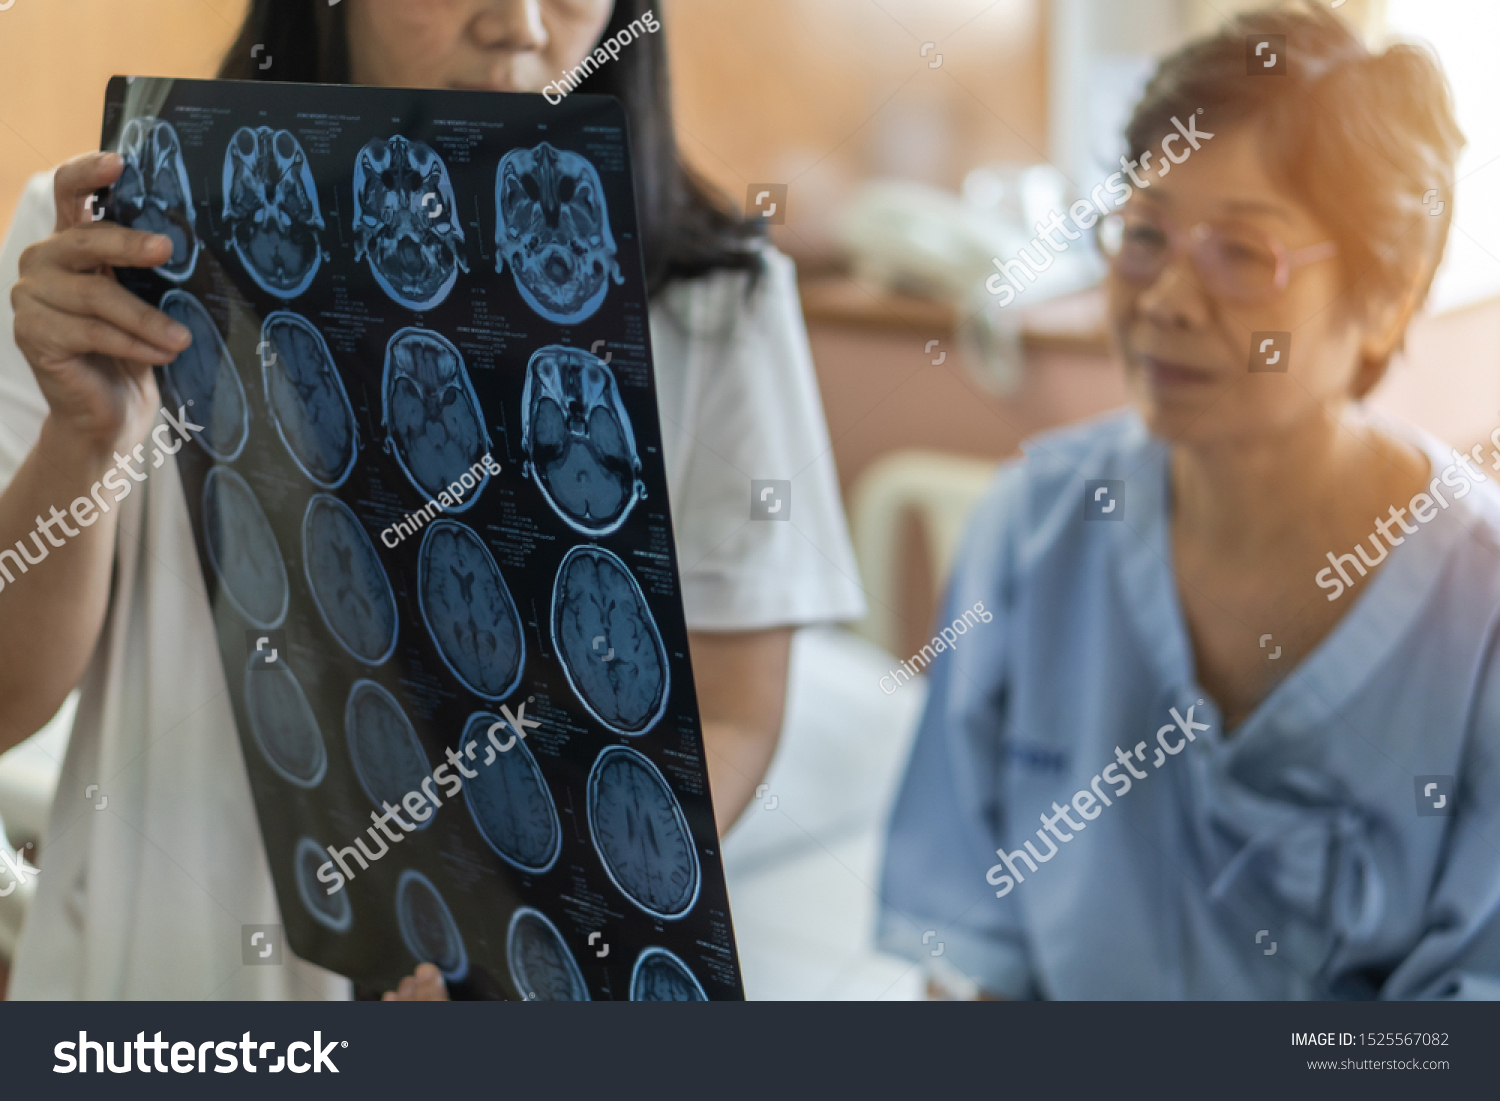
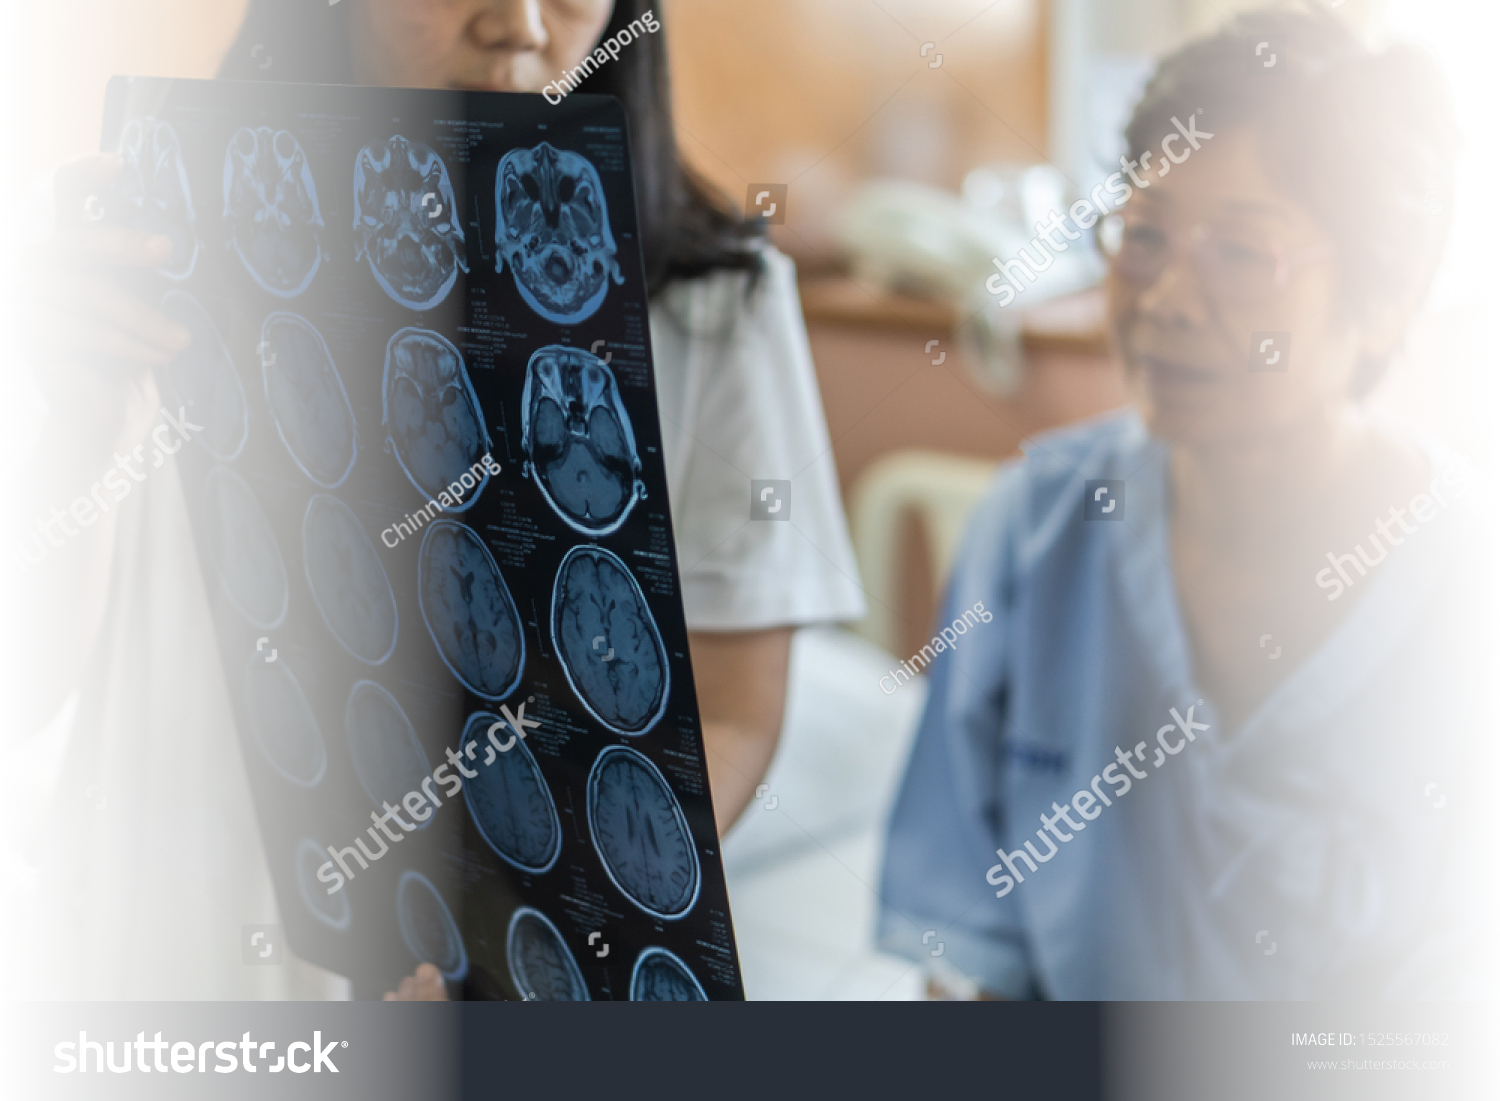
Finish about me page

diff --git a/src/components/Hheader.tsx b/src/components/Hheader.tsx
@@ -1,142 +1,28 @@
-import neuro from '/public/stock.jpg';
-// import tester from '/public/fd5.jpg';
-import tester1 from '/public/tester.jpg';
-import Image from 'next/image';
-import { Fragment } from 'react';
-import { Popover, Transition } from '@headlessui/react';
-
-import tester from '/public/stock.jpg';
-
-export const Hheader = ({ pageName }) => {
+import stock from 'public/stock.jpg';
+export default function Hheader({ pageName, imageURL }) {
   return (
-    <div className="relative  ">
-      {/* mt-[6rem] */}
-      <img
-        src={tester.src}
-        className="absolute inset-0 object-contain w-full h-full "
-        alt=""
-      />
-      <div className="relative bg-gray-900 bg-opacity-75 ">
-        {/* md:h-[50rem] */}
-        <div className="px-4 py-16 mx-auto sm:max-w-xl md:max-w-full lg:max-w-screen-xl md:px-24 lg: lg:py-20">
-          <div className="flex flex-col  justify-center xl:flex-row">
-            <div className="w-full max-w-2xl mb-12 xl:mb-0 xl:pr-16 xl:w-7/12 text-center">
-              <h1 className="max-w-lg mb-6 font-sans text-3xl font-bold tracking-tight text-white sm:text-4xl sm:leading-none mx-auto">
-                {pageName}{' '}
-                <p className="justify-center text-[#7ba009]">
-                  {/* About Us{' '} */}
-                </p>{' '}
-                {/* <p className="">Medicine Associates</p> */}
-              </h1>
-              <p className="max-w-lg mb-4 text-base text-white md:text-lg mx-auto">
-          About Us
-                {/* Serving our community since 2005. */}
-              </p>
-    
-            </div>
-            {/* <div className="w-full max-w-xl xl:px-8 xl:w-5/12">
-              <div className="bg-white rounded shadow-2xl p-7 sm:p-10">
-                <h3 className="mb-4 text-xl font-semibold sm:text-center sm:mb-6 sm:text-2xl">
-                  Sign up for updates
-                </h3>
-                <form>
-                  <div className="mb-1 sm:mb-2">
-                    <label
-                      htmlFor="firstName"
-                      className="inline-block mb-1 font-medium"
-                    >
-                      First name
-                    </label>
-                    <input
-                      placeholder="John"
-                      required
-                      type="text"
-                      className="flex-grow w-full h-12 px-4 mb-2 transition duration-200 bg-white border border-gray-300 rounded shadow-sm appearance-none focus:border-deep-purple-accent-400 focus:outline-none focus:shadow-outline"
-                      id="firstName"
-                      name="firstName"
-                    />
-                  </div>
-                  <div className="mb-1 sm:mb-2">
-                    <label
-                      htmlFor="lastName"
-                      className="inline-block mb-1 font-medium"
-                    >
-                      Last name
-                    </label>
-                    <input
-                      placeholder="Doe"
-                      required
-                      type="text"
-                      className="flex-grow w-full h-12 px-4 mb-2 transition duration-200 bg-white border border-gray-300 rounded shadow-sm appearance-none focus:border-deep-purple-accent-400 focus:outline-none focus:shadow-outline"
-                      id="lastName"
-                      name="lastName"
-                    />
-                  </div>
-                  <div className="mb-1 sm:mb-2">
-                    <label
-                      htmlFor="email"
-                      className="inline-block mb-1 font-medium"
-                    >
-                      E-mail
-                    </label>
-                    <input
-                      placeholder="john.doe@example.org"
-                      required
-                      type="text"
-                      className="flex-grow w-full h-12 px-4 mb-2 transition duration-200 bg-white border border-gray-300 rounded shadow-sm appearance-none focus:border-deep-purple-accent-400 focus:outline-none focus:shadow-outline"
-                      id="email"
-                      name="email"
-                    />
-                  </div>
-                  <div className="mt-4 mb-2 sm:mb-4">
-                    <button
-                      type="submit"
-                      className="inline-flex items-center justify-center w-full h-12 px-6 font-medium tracking-wide text-white transition duration-200 rounded shadow-md bg-deep-purple-accent-400 hover:bg-deep-purple-accent-700 focus:shadow-outline focus:outline-none"
-                    >
-                      Subscribe
-                    </button>
-                  </div>
-                  <p className="text-xs text-gray-600 sm:text-sm">
-                    We respect your privacy. Unsubscribe at any time.
-                  </p>
-                </form>
-              </div>
-            </div> */}
-          </div>
-        </div>
+    <div className="relative mt-[4rem]">
+      <div className="absolute inset-0 w-[116rem] ">
+        <img
+          className="w-full h-full object-contain "
+          src={imageURL}
+          alt=""
+        />
+        <div
+          className="absolute w-screen inset-0  bg-gradient-to-r from-white via-black/10 to-white"
+          aria-hidden="true"
+        />
+      </div>
+      <div className="relative max-w-7xl mx-auto py-24 px-4 sm:py-32 sm:px-6 lg:px-8">
+        <h1 className="text-4xl font-extrabold tracking-tight text-white sm:text-5xl lg:text-6xl text-center">
+          {pageName}
+        </h1>
+        {/* <p className="mt-6 text-xl text-indigo-100 max-w-3xl">
+          Mattis amet hendrerit dolor, quisque lorem pharetra. Pellentesque
+          lacus nisi urna, arcu sociis eu. Orci vel lectus nisl eget eget ut
+          consectetur. Sit justo viverra non adipisicing elit distinctio.
+        </p> */}
       </div>
     </div>
   );
-};
-export default Hheader;
-
-
-// export default function Hheader({ pageName }) {
-//   return (
-//     <div className="pt-28 bg-[#00AEC7] relative overflow-hidden">
-//       <div className="max-w-7xl mx-auto">
-//         <div className="relative z-10 pb-8 sm:pb-16 md:pb-20 lg:max-w-2xl lg:w-full lg:pb-28 xl:pb-32">
-//           <main className="mt-10 mx-auto max-w-7xl px-4 sm:mt-12 sm:px-6 md:mt-16 lg:mt-20 lg:px-8 xl:mt-28">
-//             <div className="sm:text-center lg:text-left">
-//               <h2 className="text-4xl tracking-tight font-extrabold text-gray-900 sm:text-5xl md:text-6xl">
-//                 <span className="block xl:inline">{pageName}</span>
-//                 {/* <span className="block text-indigo-600 xl:inline">online business</span> */}
-//               </h2>
-//               {/* <p className="mt-3 text-base text-gray-500 sm:mt-5 sm:text-lg sm:max-w-xl sm:mx-auto md:mt-5 md:text-xl lg:mx-0">
-//                 Anim aute id magna aliqua ad ad non deserunt sunt. Qui irure qui lorem cupidatat commodo. Elit sunt amet
-//                 fugiat veniam occaecat fugiat aliqua.
-//               </p> */}
-//             </div>
-//           </main>
-//         </div>
-//       </div>
-//       <div className="lg:absolute lg:inset-y-0 lg:right-0 lg:w-1/2">
-//         <img
-//           className="h-56 w-full object-cover sm:h-72 md:h-96 lg:w-full lg:h-full"
-//           src={neuro.src}
-//           alt=""
-//         />
-//       </div>
-//     </div>
-//   );
-// }
+}

diff --git a/src/pages/about.tsx b/src/pages/about.tsx
@@ -1,34 +1,109 @@
 import Team from '@/components/Team3';
 import Hheader from '@/components/Hheader';
+import tester from 'public/tester.jpg';
+import business from 'public/business.jpg';
+import sleeper from 'public/sleeper.jpg';
+import stock from 'public/stock.jpg';
+import Divider from '@/components/layout/Dividers';
 export const AboutUs = () => {
   return (
     <>
-      <div className="bg-wcyan/20 pt-24">
-        <Hheader pageName={'About Us'}></Hheader>
-        <div className="container">
-          <div className="text-center ">
-            <h2 className="mx-auto text-shadow-md ">
-              {/*text-3xl  tracking-tight  text-gray-900 sm:text-4xl */}
-              <span className="text-[#24598C]/50">About </span>
-              <span className="font-bold text-[#24598C]/80">Us</span>
-            </h2>
-
-            <p className="max-w-7xl mt-5 mx-auto text-xl text-slate-500">
-              As a neurologic and sleep disorders specialty clinic, Neurology &
-              Sleep Medicine Associates’ work is in a unique partnership of
-              health care: providing and interpreting your tests, serving as a
-              consultant to your referring physician and providing medical care
-              for your specific neurologic and sleep disorder needs. Neurology &
-              Sleep Medicine Associates’ has been carefully structured to
-              provide a personal approach to patient care. Our goal is to
-              provide you with very good service and pay close attention to your
-              individual needs and concerns.
-            </p>
+      <Hheader pageName="About Us" imageURL={stock.src}></Hheader>
+      <Divider sectionName="Our Office"></Divider>
+      <div className="container">
+      {/* px-4 py-16 mx-auto sm:max-w-xl md:max-w-full lg:max-w-screen-xl md:px-24 lg:px-8 lg:py-20 */}
+        <div className="grid gap-10 lg:grid-cols-2">
+          <div className="flex flex-col justify-center md:pr-8 xl:pr-0 lg:max-w-">
+            <div className="flex items-center justify-center w-16 h-16 mb-4 rounded-full ">
+              {/* <svg className="text-teal-900 w-7 h-7" viewBox="0 0 24 24">
+                <polyline
+                  fill="none"
+                  stroke="currentColor"
+                  strokeWidth="2"
+                  strokeLinecap="round"
+                  strokeMiterlimit="10"
+                  points=" 8,5 8,1 16,1 16,5"
+                  strokeLinejoin="round"
+                />
+                <polyline
+                  fill="none"
+                  stroke="currentColor"
+                  strokeWidth="2"
+                  strokeLinecap="round"
+                  strokeMiterlimit="10"
+                  points="9,15 1,15 1,5 23,5 23,15 15,15"
+                  strokeLinejoin="round"
+                />
+                <polyline
+                  fill="none"
+                  stroke="currentColor"
+                  strokeWidth="2"
+                  strokeLinecap="round"
+                  strokeMiterlimit="10"
+                  points="22,18 22,23 2,23 2,18"
+                  strokeLinejoin="round"
+                />
+                <rect
+                  x="9"
+                  y="13"
+                  fill="none"
+                  stroke="currentColor"
+                  strokeWidth="2"
+                  strokeLinecap="round"
+                  strokeMiterlimit="10"
+                  width="6"
+                  height="4"
+                  strokeLinejoin="round"
+                />
+              </svg> */}
+            </div>
+            <div className="max-w-xl mb-6">
+              <h2 className="max-w-lg mb-6 font-sans text-3xl font-bold tracking-tight text-gray-900 sm:text-4xl sm:leading-none">
+                Welcome to
+                <br />
+                <p className="hidden md:block text-[#7ba009]">
+                  Neurology and Sleep{' '}
+                </p>
+                <span className="inline-block ">Medicine Associates</span>
+              </h2>
+              <p className="text-base text-gray-700 md:text-lg">
+                As a neurologic and sleep disorders specialty clinic, Neurology
+                & Sleep Medicine Associates’ work is in a unique partnership of
+                health care: providing and interpreting your tests, serving as a
+                consultant to your referring physician and providing medical
+                care for your specific neurologic and sleep disorder needs.
+                Neurology & Sleep Medicine Associates’ has been carefully
+                structured to provide a personal approach to patient care. Our
+                goal is to provide you with very good service and pay close
+                attention to your individual needs and concerns. Some of our
+                core tenants are:
+              </p>
+            </div>
+          </div>
+          <div className="flex items-center justify-center -mx-4 lg:pl-8">
+            <div className="flex flex-col items-end px-3">
+              <img
+                className="object-cover mb-6 rounded shadow-lg h-28 sm:h-48 xl:h-56 w-28 sm:w-48 xl:w-56"
+                src={business.src}
+                alt=""
+              />
+              <img
+                className="object-cover w-20 h-20 rounded shadow-lg sm:h-32 xl:h-40 sm:w-32 xl:w-40"
+                src={sleeper.src}
+                alt=""
+              />
+            </div>
+            <div className="px-3">
+              <img
+                className="object-cover w-40 h-40 rounded shadow-lg sm:h-64 xl:h-80 sm:w-64 xl:w-80"
+                src={tester.src}
+                alt=""
+              />
+            </div>
           </div>
         </div>
-
-        <Team></Team>
       </div>
+      <Team></Team>
     </>
   );
 };

diff --git a/src/components/Team3.tsx b/src/components/Team3.tsx
@@ -1,3 +1,4 @@
+import Divider from './layout/Dividers';
 import dr from '/public/Dr.png';
 
 const people = [
@@ -36,11 +37,7 @@ export default function Team() {
   return (
     <div className="testImage">
       <div className="container">
-        <h2 className="mx-auto text-shadow-md ">
-          {/*text-3xl  tracking-tight  text-gray-900 sm:text-4xl */}
-          <span className="text-[#24598C]/50">Meet Our </span>
-          <span className="font-bold text-[#24598C]/80">Team</span>
-        </h2>
+        <Divider sectionName="Meet Our Team" />
 
         <div className="space-y-12  ">
           <ul
@@ -50,7 +47,7 @@ export default function Team() {
             {people.map((person) => (
               <li
                 key={person.name}
-                className="py-10 px-6 bg-cyan-900/40  text-center rounded-lg xl:px-10 xl:text-left"
+                className="py-10 px-6 bg-[#00847D] text-center rounded-lg xl:px-10 xl:text-left"
               >
                 <div className="space-y-6 xl:space-y-10">
                   <img
@@ -61,7 +58,9 @@ export default function Team() {
                   <div className="space-y-2 xl:flex xl:items-center lg:justify-center">
                     <div className=" font-medium text-lg leading-6 space-y-1">
                       <h3 className="text-white">{person.name}</h3>
-                      <p className="text-slate-200 text-center">{person.role}</p>
+                      <p className="text-slate-200 text-center">
+                        {person.role}
+                      </p>
                     </div>
                   </div>
                 </div>
